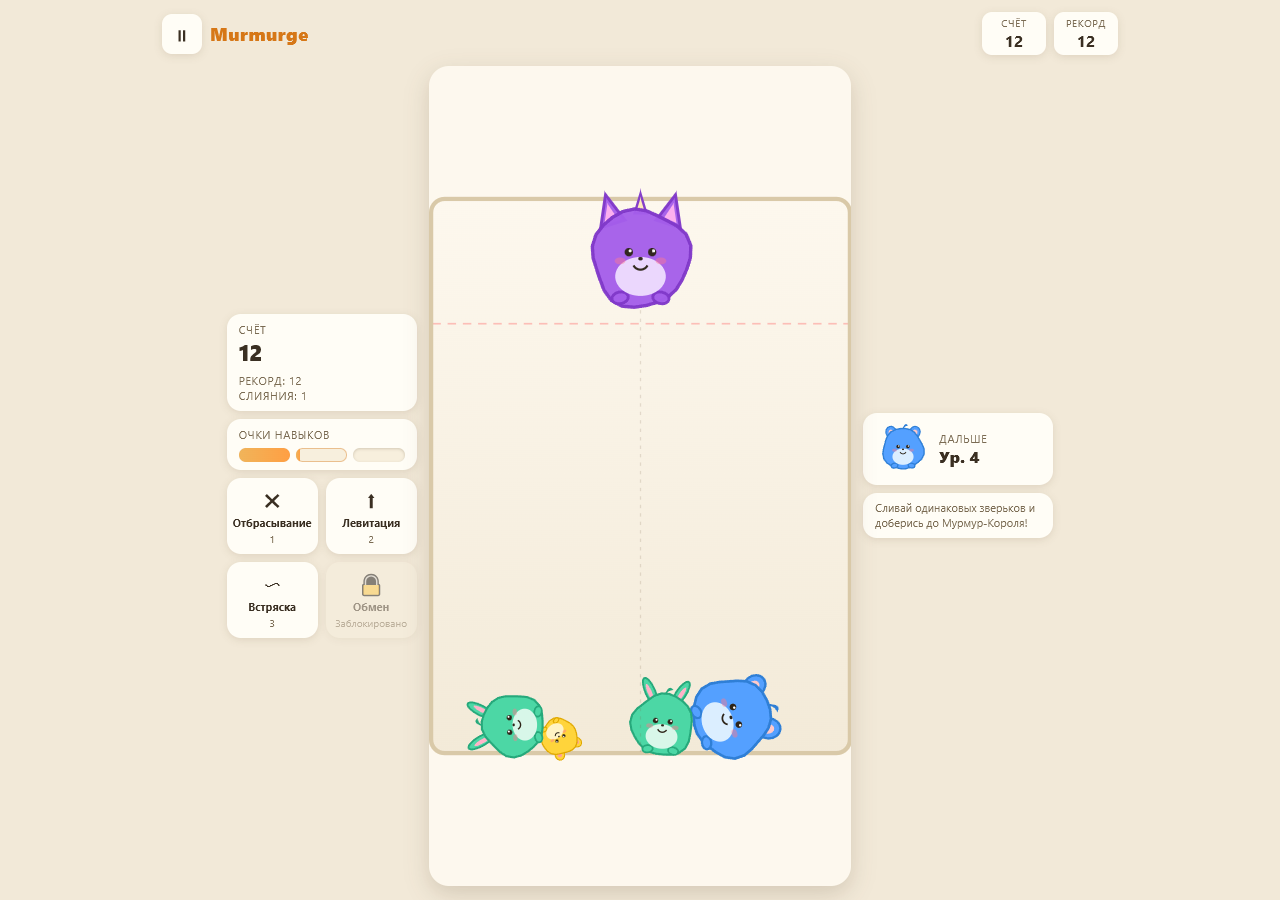
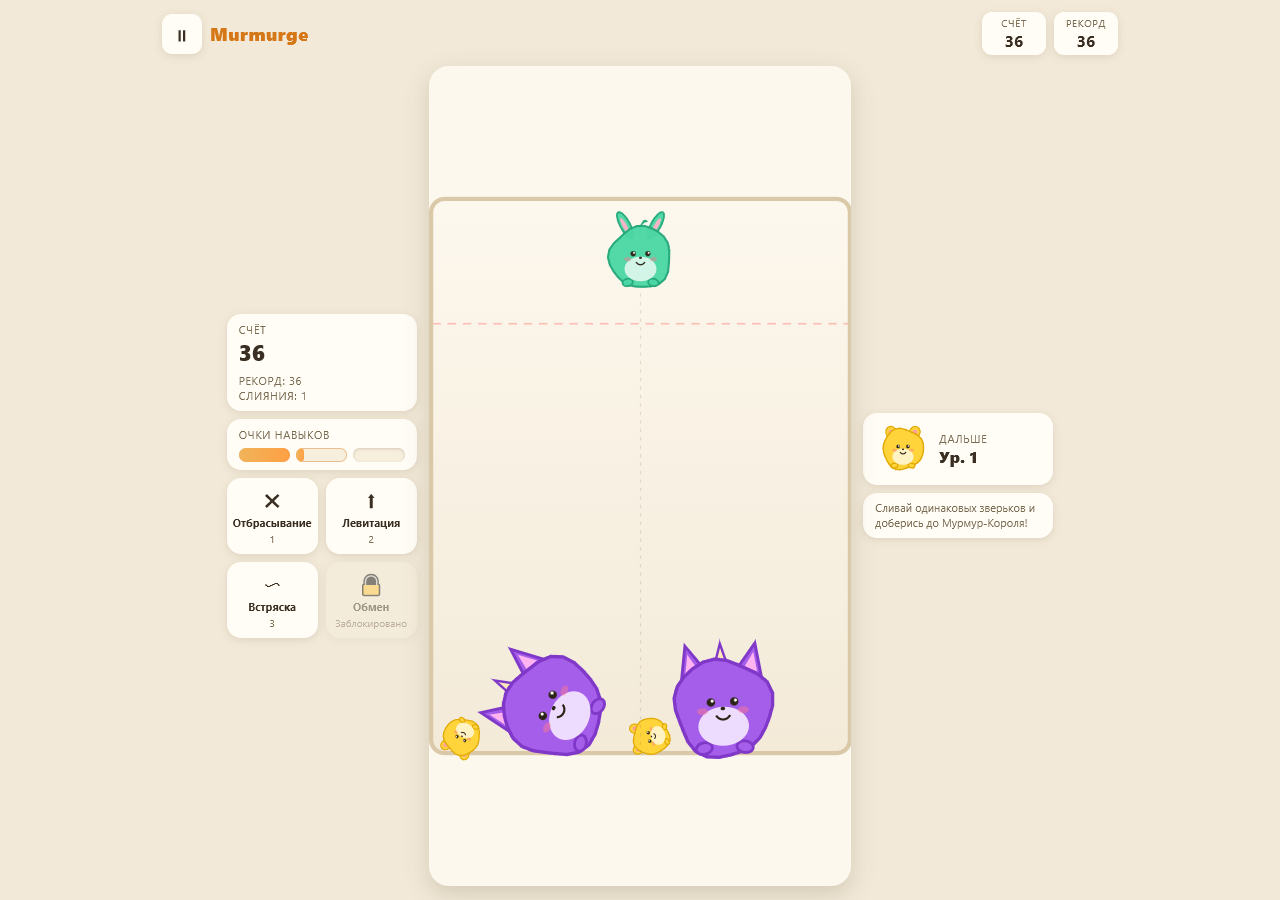
bug fixes

diff --git a/src/game/GameEngine.ts b/src/game/GameEngine.ts
@@ -334,6 +334,9 @@ export class GameEngine {
     Matter.Body.setAngularVelocity(body, av);
     this.registerBall(newLevel, body);
 
+    // опоры исчезли — будим всех, чтобы «висячие» соседи упали
+    this.wakeAllBalls();
+
     // score
     const gained = GAME_CONFIG.scoreByResultLevel[newLevel] ?? 0;
     this.state.score += gained;
@@ -388,6 +391,17 @@ export class GameEngine {
       this.dangerTimers.delete(body.id);
     }
     this.balls.delete(e.ballId);
+  }
+
+  /**
+   * Будим все шары: структурные изменения (merge/discard/swap) убирают опоры —
+   * спящие «висячие» соседи должны упасть. Без этого Detektor пропускает их
+   * пары (isSleeping-тела исключены из collision-детекции Matter 0.20).
+   */
+  private wakeAllBalls(): void {
+    for (const body of Matter.Composite.allBodies(this.engine.world)) {
+      if (body.label === 'ball' && !body.isStatic) Matter.Sleeping.set(body, false);
+    }
   }
 
   getBallByBodyId(bodyId: number): BallEntity | undefined {
@@ -644,6 +658,7 @@ export class GameEngine {
       const body = this.getBallBody(e);
       if (body) this.cb.onMergeEffect(body.position.x, body.position.y, e.level);
       this.removeBall(e);
+      this.wakeAllBalls();
       this.state.activeAbility = null;
       this.state.phase = 'PLAYING';
       this.push();
@@ -702,9 +717,9 @@ export class GameEngine {
     Matter.Body.setVelocity(bb, va);
     Matter.Body.setAngularVelocity(bb, avA);
 
-    // будим оба: спящая пара не детектится Matter (застревание без слияния)
-    Matter.Sleeping.set(ba, false);
-    Matter.Sleeping.set(bb, false);
+    // будим всех: спящая пара не детектится Matter (застревание без слияния),
+    // а соседи убранной опоры должны упасть
+    this.wakeAllBalls();
     // слияние сразу после обмена: без ожидания mergeCooldown
     ea.canMergeAfter = this.simTime;
     eb.canMergeAfter = this.simTime;
@@ -883,13 +898,35 @@ export class GameEngine {
 
     Matter.Engine.update(this.engine, stepMs);
 
-    for (const body of Matter.Composite.allBodies(this.engine.world)) {
-      if (body.label !== 'ball' || body.isStatic) continue;
+    for (const e of this.balls.values()) {
+      const body = this.getBallBody(e);
+      if (!body || body.isStatic) continue;
+      // лимит скорости
       const v = body.velocity;
       const sp = Math.hypot(v.x, v.y);
       if (sp > PHYSICS_CONFIG.maxSpeed) {
         const k = PHYSICS_CONFIG.maxSpeed / sp;
         Matter.Body.setVelocity(body, { x: v.x * k, y: v.y * k });
+      }
+      // страховка границ: тело не должно жить за стенками (туннелирование
+      // при встряске/слияниях) — возвращаем внутрь и гасим нормальную скорость
+      const r = BALL_CONFIG[e.level].radius;
+      const minX = r + 2;
+      const maxX = PHYSICS_CONFIG.logicalWidth - r - 2;
+      const minY = r + 1;
+      const maxY = PHYSICS_CONFIG.logicalHeight - r - 2;
+      let px = body.position.x;
+      let py = body.position.y;
+      let vx = body.velocity.x;
+      let vy = body.velocity.y;
+      let clamped = false;
+      if (px < minX) { px = minX; vx = Math.abs(vx) * 0.3; clamped = true; }
+      else if (px > maxX) { px = maxX; vx = -Math.abs(vx) * 0.3; clamped = true; }
+      if (py < minY) { py = minY; vy = Math.abs(vy) * 0.3; clamped = true; }
+      else if (py > maxY) { py = maxY; vy = -Math.abs(vy) * 0.3; clamped = true; }
+      if (clamped) {
+        Matter.Body.setPosition(body, { x: px, y: py });
+        Matter.Body.setVelocity(body, { x: vx, y: vy });
       }
     }
   }

diff --git a/src/__tests__/wake.test.ts b/src/__tests__/wake.test.ts
@@ -1,0 +1,88 @@
+import { describe, it, expect } from 'vitest';
+import { GameEngine } from '../game/GameEngine';
+import { BALL_CONFIG } from '../game/config/ballConfig';
+import { PHYSICS_CONFIG } from '../game/config/physicsConfig';
+
+const STEP = 1000 / 60;
+
+function makeEngine(seed: number): GameEngine {
+  return new GameEngine(
+    {
+      onStateChanged: () => undefined,
+      onMergeEffect: () => undefined,
+      onSpawnDropped: () => undefined,
+      onGameOver: () => undefined,
+      onCountdownStarted: () => undefined,
+      onVictory: () => undefined,
+      onBestScoreChanged: () => undefined,
+    },
+    seed,
+  );
+}
+
+function run(engine: GameEngine, ms: number): void {
+  const ticks = Math.round(ms / (1000 / 60));
+  for (let i = 0; i < ticks; i++) engine.update(STEP);
+}
+
+describe('wake-on-structural-change', () => {
+  it('после discard (структурное удаление) ни одно тело не остаётся спящим', () => {
+    const engine = makeEngine(31);
+    engine.startNewGame();
+    for (let i = 0; i < 12; i++) {
+      engine.moveCurrentTo(250);
+      engine.drop();
+      run(engine, 560);
+    }
+    run(engine, 2600); // осадка и сон
+    const mergesBefore = engine.snapshot().mergesTotal;
+
+    if (engine.snapshot().skillPoints >= 1 && engine.allBalls().length > 0) {
+      const target = engine.allBalls()[0];
+      if (engine.startAbility('discard')) {
+        engine.tapBall(target.ballId);
+        run(engine, 100);
+        const awake = engine.allBalls().every((b) => !engine.getBallBody(b)!.isSleeping);
+        expect(awake).toBe(true);
+      }
+    }
+    expect(engine.snapshot().mergesTotal).toBeGreaterThanOrEqual(mergesBefore);
+  }, 45000);
+
+  it('границы: ни одно тело не выходит за стенки даже при встряске', () => {
+    const engine = makeEngine(77);
+    engine.startNewGame();
+    let drops = 0;
+    while (engine.snapshot().skillPoints < 3 && drops < 70) {
+      engine.moveCurrentTo(250);
+      engine.drop();
+      drops++;
+      run(engine, 620);
+    }
+    for (let i = 0; i < 6; i++) {
+      engine.moveCurrentTo(100 + i * 60);
+      engine.drop();
+      run(engine, 500);
+    }
+    if (engine.canStartAbility('shake')) {
+      expect(engine.startAbility('shake')).toBe(true);
+    }
+    let outOfBounds = 0;
+    for (let t = 0; t < 80; t++) {
+      engine.update(STEP);
+      for (const e of engine.allBalls()) {
+        const body = engine.getBallBody(e)!;
+        const r = BALL_CONFIG[e.level].radius;
+        if (
+          body.position.x < r - 8 ||
+          body.position.x > PHYSICS_CONFIG.logicalWidth - r + 8 ||
+          body.position.y < r - 8 ||
+          body.position.y > PHYSICS_CONFIG.logicalHeight - r + 8
+        ) {
+          outOfBounds++;
+        }
+      }
+    }
+    expect(outOfBounds).toBe(0);
+  }, 45000);
+});

diff --git a/src/app/App.tsx b/src/app/App.tsx
@@ -263,7 +263,13 @@ export default function App() {
         <button
           className="icon-btn"
           aria-label={UI_TEXT.paused}
-          onClick={() => {
+          onPointerDown={(e) => {
+            // на тач-устройствах pointerdown+touch-action:none на канвасе
+            // может съесть click: реагируем на pointerdown, не дожидаясь click
+            e.stopPropagation();
+          }}
+          onClick={(e) => {
+            e.stopPropagation();
             const eng = engineRef.current;
             if (!eng) return;
             const st = eng.snapshot();
@@ -283,7 +289,7 @@ export default function App() {
           <span className="label">{UI_TEXT.score}</span>
           <span className="value">{state?.score ?? 0}</span>
         </div>
-        <div className="chip">
+        <div className="chip chip-best">
           <span className="label">{UI_TEXT.best}</span>
           <span className="value">{state?.bestScore ?? 0}</span>
         </div>
@@ -327,12 +333,17 @@ export default function App() {
           )}
         </div>
 
-        <aside className="side-col">
+        <aside className="side-col side-col-right">
           <NextPreview level={state?.nextLevel ?? 1} discovered={!!state?.discovered[state?.nextLevel ?? 1]} />
           <div className="panel hint">
             Сливай одинаковых зверьков и доберись до Мурмур-Короля!
           </div>
         </aside>
+      </div>
+
+      {/* Мобильный compact-превью следующей фигуры (внизу поля) */}
+      <div className="next-mobile">
+        <NextPreview level={state?.nextLevel ?? 1} discovered={!!state?.discovered[state?.nextLevel ?? 1]} compact />
       </div>
 
       {/* Отсчёт 3-2-1 — тонкий статус сверху поля; крупный циферблат рисует канвас */}

diff --git a/e2e/mobile-pause.spec.ts b/e2e/mobile-pause.spec.ts
@@ -1,0 +1,43 @@
+import { test, expect } from '@playwright/test';
+
+const BASE = 'http://localhost:4173/';
+
+test('mobile touch: пауза открывается тапом, чип Рекорд скрыт, компактный Next снизу', async ({ browser }) => {
+  const context = await browser.newContext({
+    viewport: { width: 390, height: 844 },
+    hasTouch: true,
+  });
+  const page = await context.newPage();
+  await page.goto(BASE);
+  await page.click('.menu-btn.primary');
+  await expect(page.locator('.game-area canvas')).toBeVisible();
+
+  // тап по полю (дроп)
+  const canvas = page.locator('.game-area canvas');
+  const box = (await canvas.boundingBox())!;
+  await page.touchscreen.tap(box.x + box.width / 2, box.y + 60);
+  await page.waitForTimeout(600);
+
+  // Рекорд-чип скрыт на мобиле
+  const bestVisible = await page.locator('.chip-best').isVisible().catch(() => false);
+  expect(bestVisible).toBe(false);
+
+  // компактный Next виден внизу, десктопная правая колонка скрыта
+  await expect(page.locator('.next-compact')).toBeVisible();
+  const rightCol = await page.locator('.side-col-right').isVisible().catch(() => false);
+  expect(rightCol).toBe(false);
+
+  // ТАП по кнопке паузы — модалка «Пауза» должна открыться
+  const pauseBtn = page.locator('.icon-btn');
+  await expect(pauseBtn).toBeEnabled();
+  const pb = (await pauseBtn.boundingBox())!;
+  await page.touchscreen.tap(pb.x + pb.width / 2, pb.y + pb.height / 2);
+  await page.waitForTimeout(400);
+  await expect(page.locator('.modal h2')).toHaveText('Пауза');
+
+  // Продолжить
+  await page.click('.menu-btn.primary:has-text("Продолжить")');
+  await expect(page.locator('.game-area canvas')).toBeVisible();
+
+  await context.close();
+});

diff --git a/src/ui/HUD/NextPreview.tsx b/src/ui/HUD/NextPreview.tsx
@@ -5,13 +5,40 @@ import { UI_TEXT } from '../../data/localization';
 interface Props {
   level: number;
   discovered: boolean;
+  /** компактный режим: маленькая плашка с иконкой, без текста */
+  compact?: boolean;
 }
 
-export function NextPreview({ level, discovered }: Props) {
+export function NextPreview({ level, discovered, compact }: Props) {
   const ref = useRef<HTMLCanvasElement | null>(null);
   useEffect(() => {
     if (ref.current) drawCreatureIcon(ref.current, level as 1, discovered);
   }, [level, discovered]);
+  if (compact) {
+    return (
+      <div className="next-compact" aria-label={`${UI_TEXT.next}: уровень ${level}`}>
+        <svg className="next-compact-icon" viewBox="0 0 24 24" width="14" height="14" aria-hidden>
+          <path
+            d="M4 5h12M12 5l-3-3M12 5l-3 3"
+            stroke="currentColor"
+            strokeWidth="2"
+            fill="none"
+            strokeLinecap="round"
+            strokeLinejoin="round"
+          />
+          <path
+            d="M20 19H8M12 19l3-3M12 19l3 3"
+            stroke="currentColor"
+            strokeWidth="2"
+            fill="none"
+            strokeLinecap="round"
+            strokeLinejoin="round"
+          />
+        </svg>
+        <canvas ref={ref} className="next-compact-canvas" />
+      </div>
+    );
+  }
   return (
     <div className="panel next-panel" aria-label={UI_TEXT.next}>
       <canvas ref={ref} className="next-canvas" />

diff --git a/src/styles/global.css b/src/styles/global.css
@@ -276,6 +276,34 @@ button:focus-visible {
   height: 56px;
 }
 
+/* компактная плашка следующей фигуры (mobile, внизу поля) */
+.next-compact {
+  display: flex;
+  align-items: center;
+  justify-content: center;
+  gap: 6px;
+  background: var(--panel);
+  border-radius: 999px;
+  box-shadow: var(--shadow-1);
+  padding: 4px 10px;
+  min-width: 64px;
+  min-height: 36px;
+}
+
+.next-compact-icon {
+  color: var(--ink-soft);
+  flex: none;
+}
+
+.next-compact-canvas {
+  width: 26px;
+  height: 26px;
+}
+
+.next-mobile {
+  display: none;
+}
+
 .hint {
   font-size: 11px;
   color: var(--ink-soft);
@@ -547,6 +575,24 @@ button:focus-visible {
     flex-direction: column;
     align-items: center;
     gap: var(--spacing-2);
+  }
+
+  /* правая колонка (Next + подсказка) прячется — заменяет компактная плашка внизу */
+  .side-col-right {
+    display: none;
+  }
+
+  .next-mobile {
+    display: block;
+    width: min(100%, 480px);
+    display: flex;
+    justify-content: center;
+    margin-top: calc(-1 * var(--spacing-1));
+  }
+
+  /* верхняя шапка: только Пауза + Счёт; Рекорд скрыт (дублирует левую панель) */
+  .chip-best {
+    display: none;
   }
 
   .side-col {

diff --git a/DECISIONS.md b/DECISIONS.md
@@ -126,3 +126,23 @@
 23. **Баланс 0.1.4.** Встряска: 650→1100 мс, импульс X 0.009→0.017,
     Y 0.004→0.009, тик 100→90 мс, тела будятся на каждом тике. Левитация:
     1250→2000 мс. Оба значения в balanceConfig.effects.
+
+24. **Wake-on-structural-change (0.1.5).** «Висячие» тела после merge/discard/
+    swap — спящие соседи, потерявшие опору: Detector.collisions пропускает
+    пары спящих, гравитация не будит. Теперь wakeAllBalls() после каждого
+    структурного изменения (merge, discard, swap). Юнит: после discard ни
+    одно тело не спит.
+
+25. **Границы поля (0.1.5).** Туннелирование при Встряске выбрасывало тела
+    за стенки, где они «висели» и запускали отсчёт. Каждый физический шаг:
+    clamp позиции в [r, W-r] × [r, H-r] с гашением нормальной скорости до
+    30%. Интеграционный тест: при активной встряске ни одно тело не выходит
+    за границы (+8 px допуск).
+
+26. **Мобильный HUD (0.1.5).** Кнопка паузы: onClick + stopPropagation
+    (тач-драйверы иногда не доставляют click после touch-action:none на
+    соседнем канвасе). Верхняя шапка на мобиле: чип «Рекорд» скрыт (дубль
+    левой панели), правая колонка (Next + подсказка) скрыта; вместо неё —
+    компактная круглая плашка «следующая фигура» (стрелки + мини-арт) под
+    игровым полем, там, где она заметна. E2E с hasTouch=true: тап-пауза
+    работает, чип/колонка скрыты, компакт виден.
